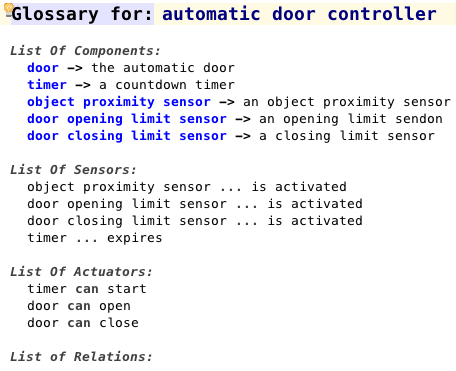
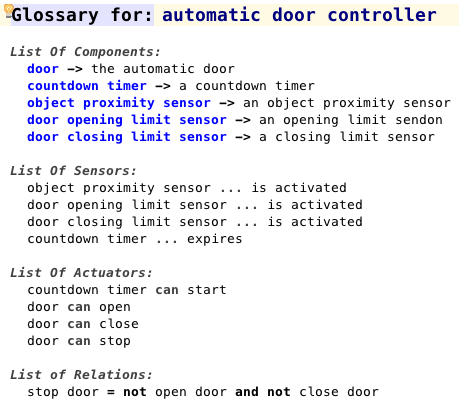
more text

diff --git a/text_paper/highlights.tex b/text_paper/highlights.tex
@@ -3,60 +3,106 @@
 \subsection{``Real'' EARS}
 
 A significant amount of effort was invested into making \textsf{EARS-CTRL} as close as
-possible to the real EARS templates used at Rolls-Royce. Given the fact that
+possible to the real EARS language used at Rolls-Royce. Given the fact that
 EARS was not originally built to describe requirements at a level where they can
 automatically be transposed into a real system, a large investment was made into
-having a translation from EARS into the formalism used by a controller
-synthesizer (the Linear Temporal Logic -- LTL -- formalism) that would overcome 
-as much as possible the barriers between the structured but non-formal nature of
+having a translation from EARS into the formalism used the controller
+synthesizer we use in our work: the Linear Temporal Logic -- LTL -- formalism.
+This translation was built to overcome as much as possible the barriers between the structured but non-formal nature of
 EARS, and the strictly formal nature of LTL.
 
-\begin{figure}[t]
+\begin{figure}[h!]
    \begin{center}
      \includegraphics[width=1\textwidth]{images/EARS-Reqs.png}
-     \caption{Requirements for a sliding door controller written using the 
-     \textsf{EARS-Ctrl} editor}
+     \caption{\textsf{EARS-CTRL} Requirements for a sliding door controller}
      \label{fig:ears_reqs}
    \end{center}
  \end{figure}
  
-Figure~\ref{fig:ears_reqs} ilustrates a set of \textsf{EARS-Ctrl} requirements
+Figure~\ref{fig:ears_reqs} ilustrates a set of \textsf{EARS-CTRL} requirements
 for the software controller for a sliding door. By remaining as close as
-possible to the original EARS syntax our editor allows building requirements in
-correct English that can easily read and undertood by humans. 
+possible to the original EARS syntax our editor allows building requirements as
+correct English sentences that can easily read and understood by humans.
 
-One of the main goals of our approach is to remain as faithful as possible to
-the requirements-capturing method proposed by Mavin~\cite{}, thus retaining its advantages of \ldots, as
-described in~\cite{}. In such as manner our tool benefits from all the research
-and advantages of EARS described in the literature~\cite{}. In order to be able
-to ``write'' EARS-like requirements, a first analysis of the problem needs to be
-done in the shape of the creation of a of glossary for the problem at hand. Such
-a glossary is specific to the domain of controllers and identifies the
-components of the system to be controlled, which have sensors and actuators the
-controller logic will use respectively as inputs and outputs.
+\begin{figure}[h!]
+\begin{center}
+\textbf{When} $\langle$trigger$\rangle$ \textbf{then the}
+$\langle$system name$\rangle$ \textbf{shall}
+$\langle$response$\rangle$ \textbf{until}
+$\langle$trigger$\rangle$.
+\caption{An non-standard state-driven EARS template including an \emph{until}
+clause.}
+\label{fig:ears_template_while}
+\end{center}
+\end{figure}
 
-In order to reach a functioning controller we then allow interacting with the
-automatically generated synthesizer using Simulink. When necessary the engineer
-can edit the EARS requirements, where necessary, to be able to generate
-controllers exhibiting the expected behavior. This may come at the cost of
-sacrificing some of the readabilty of the original EARS
-requirements.\levi{blahblah}
+In~\cite{LucioRCM17} we have presented a previous version of \textsf{EARS-CTRL}
+which included templates that, although not part of the original EARS, had been
+introduced to simplify translation into LTL.  An example of one such templates
+is presented in figure~\ref{fig:ears_template_while} -- the \textbf{while} segment of the
+requirement is not standard EARS and it has been removed in the version of
+\textsf{EARS-CTRL} we present in this paper. The work of briging the syntax of
+\textsf{EARS-CTRL} closer to ``real'' EARS while preserving a semantically
+meaniful translation into LTL was done with together with Alistair Mavin, the
+author of this paper who first proposed EARS~\cite{EARS09}.
+Our rationale is that, by remaining as faithful as possible to the original
+EARS syntax, we: 1) benefit from all the advantages of using EARS already
+investigated and described in the literature~\cite{EARS09,EARS16}; and 2)
+provide to Rolls-Royce and potentially other companies a tool that can immediately be used by engineers trained in using EARS.
+
+% , thus
+% retaining its advantages of \ldots, as described in~\cite{}. In such as manner our tool benefits from all the research
+% and advantages of EARS described in the literature~\cite{}.
+
+% One of the main goals of our approach is to  In order to be able
+% to ``write'' EARS-like requirements, a first analysis of the problem needs to be
+% done in the shape of the creation of a of glossary for the problem at hand.
+%
+% 
+% In order to reach a functioning controller we then allow interacting with the
+% automatically generated synthesizer using Simulink. When necessary the engineer
+% can edit the EARS requirements, where necessary, to be able to generate
+% controllers exhibiting the expected behavior. This may come at the cost of
+% sacrificing some of the readabilty of the original EARS
+% requirements.\levi{blahblah}
 
 \subsection{A Push-Button Approach}
 
 Controllers can be fully automatically synthesized from EARS requirements into
-controllers, at the push of a button. \ldots
+controllers, at the push of a button. Note that in order to build requirements
+model illustrated in figure~\ref{fig:ears_reqs} it is necessary to previously
+build a glossary for the controller. Such a glossary identifies the components
+of the system to be controlled. Each of those components contains sensors
+and/or actuators the controller logic will use respectively as inputs from and
+outputs to the real system. The vocabulary defined in the glossary is
+appropriately proposed by the editor to fill in the placeholders when a new
+requirement is built.
+
+\begin{figure}[h!]
+   \begin{center}
+     \includegraphics[width=.5\textwidth]{images/glossary.png}
+     \caption{\textsf{EARS-CTRL} Glossary for sliding door controller}
+     \label{fig:ears_glossary}
+   \end{center}
+ \end{figure}
+ 
+ We present in figure~\ref{fig:ears_glossary} the glossary for the automatic
+ door controller specification. Note that the glossary allows defining
+ invariants that will be taken into consideration during controller synthesis:
+ for example in the last line of glossary in figure~\ref{fig:ears_glossary} we
+ state that if the motor is \textsf{stopped}, then it cannot be
+ \textsf{opening} or \textsf{closing}.
 
 \subsection{Verification}
 
-Our \textsf{EARS-CTRL} tool provides a set of mechanisms for verification, in
-particular \emph{Well-Formedness by Construction} when the specification is
-being built and \emph{simulation} of the synthesized controllers by exercising the
-controller manually using \textsf{simulink} as a back-end. We can also generate
-test cases for controllers that can either be used to debug the controller by
-analysing traces of execution of the controller or to be used as test-cases for
-alternative implementations of the controllers which are not automatically
-synthesized.
+% Our \textsf{EARS-CTRL} tool provides a set of mechanisms for verification, in
+% particular \emph{Well-Formedness by Construction} when the specification is
+% being built and \emph{simulation} of the synthesized controllers by exercising the
+% controller manually using \textsf{simulink} as a back-end. We can also generate
+% test cases for controllers that can either be used to debug the controller by
+% analysing traces of execution of the controller or to be used as test-cases for
+% alternative implementations of the controllers which are not automatically
+% synthesized.
 
 \subsubsection{Well-Formedness by Construction}
 
@@ -66,30 +112,41 @@ requirements engineer selects an EARS template, the corresponding sentence is
 shown to her as a structure with placeholders. These structures provide a
 first level of well-formedness, as only correct sentences can be written. The
 second level of well-formedness is guaranteed by the fact that only valid
-sensors or actuators can be chosen in those sentences' placeholders. This is
-illustrated in figure~\ref{}.
+sensors or actuators can be chosen in those sentences' placeholders. 
 
 Well-formedness allows writing syntactically correct \textsf{EARS-CTRL}
 specifications. The semantics of such specifications is then given by the
 \textsf{autoConf4} synthesizer in the form of a synchronous dataflow diagram,
-which \textsf{EARS-CTRL} can display when synthesis is possible. In the cases
-where synthesis is not possible the error code from the\textsf{autoConf4} tool
-is lifted such that the requirements that prevent the controller from being
+which \textsf{EARS-CTRL} can display graphically when synthesis is possible. In
+the cases where synthesis is not possible the error code from the
+\textsf{autoConf4} tool is lifted such that the requirements that prevent the controller from being
 generated are pointed out. \levi{this is not done yet}
 
 \subsubsection{Simulation}
 
+\begin{figure}[h!]
+   \begin{center}
+     \includegraphics[width=.1\textwidth]{images/glossary.png}
+     \caption{\textsf{EARS-CTRL} specification simulator}
+     \label{fig:ears_glossary}
+   \end{center}
+ \end{figure}
+
 Once a controller can be synthesized from a set of EARS requirements, it becomes
 important to understand whether that controller behaves as expected. In order to
 do so we have built a translator from synchronous dataflow diagrams into
-\textsf{Simulink}, which then allows us to exercise the behavior of the
-controller.
+\textsf{Simulink} block diagramns, which then allows us to exercise the behavior
+of the controller. In figure~\ref{} we display the panel that allows
+``playing'' the controller by providing a sequence of inputs manually. Outputs
+are incrementally added to the panel as new inputs are provided by the
+requirements engineer. Note that the controller keeps state, which means that
+the order in which the commands are given matters. The ``Reset'' button in the
+panel allows resetting the controller to its initial state.
 
 \subsubsection{Generation of Test Cases}
 
 \textsf{EARS-CTRL} allows generating test cases directly from the EARS
-requirements. Test cases are generated through the panel displayed in
-figure~\ref{}. A test case consists of a sequence of $\langle
+requirements. A test case consists of a sequence of $\langle
   input, output \rangle$ pairs, where each input is a vector of sensor states
   and each output a vector of actuator states. Note that individual sensors and
   actuators assume two states: ``0'': off; ``1'': on.
@@ -106,7 +163,6 @@ providing the following values:
   an input vector cannot occur more than once in a test sequence (thus limiting
   the length of test sequences to the number of possible input vectors).
 \end{itemize} 
-
 
 \subsection{Code Generation}
 

diff --git a/text_paper/architecture.tex b/text_paper/architecture.tex
@@ -14,45 +14,58 @@ reader a brief description of the main components of the tool's architecture,
 how those components have been implemented and which artifacts those
 components interchange. 
  
-\paragraph{1. EARS and Glossary Editor\\\\} 
+\paragraph{1. Requirements and Glossary Editor\\\\} 
 
-As previously mentioned, an \textsf{EARS-CTRL} specification is composed of a
-Glossary and of a set of requirements.
-
-Additionally, in the glossary the requirements engineer can also express
-relationships between signals such that necessary constrains can be defined, as show in figure~\ref{}.
-
-Aliases for signals can also be defined, as can be seen in figure~\ref{}. These
-aliases are helpful in making the specification readable, as can be seen in the
-example in figure~\ref{}.
+Both the requirements and the glossary editors have been built as
+domain-specific languages in the MPS meta-editing tool. The languages are mostly
+composed of an abstract syntax (also known as meta-model) and a concrete syntax
+which allows displaying and editing the information in a neat fashion, as
+depicted in figures~\ref{fig:ears_reqs} and ~\ref{fig:ears_glossary}. In order
+to build a new set of requirements or a glossary the requirements engineer
+simply builds an instance (also known as a model) of the corresponding language.
+Note that because MPS is a projectional editor the abstract syntax is directly
+edited in the model. A direct consequence of this is for example the fact that
+when a glossary component's name is updated in the glossary editor, that term
+will be immediately updated in any requirements that refer to that component
+name. This is because requirements directly refer to the component names defined
+in the glossary.
 
 \paragraph{2. From EARS to Lineal Temporal Logic\\\\}
 
+\textsf{EARS-CTRL} requirements can be translated mostly in a straightforward
+fashion from the English language into LTL. Take for instance requirement
+``Req1'' from figure~\ref{fig:ears_reqs}:
+
+\begin{center}
+\textbf{When} \emph{object proximity sensor is activated} \textbf{then the} \emph{automatic door controller} \textbf{shall}
+\emph{open door}.
+\end{center}
+
+ This requirement translates into the following LTL formula:
+ 
+ $$[] (objectproximitysensorisactivated \rightarrow dooropen)$$
+ 
+ which, if one takes into consideration the semantics of the $\rightarrow$
+ operator as ``implies'', is the expected logical meaning of ``Req1''. However,
+ if one translates the whole set of requirements for the automatic door in
+ \ref{fig:ears_reqs} into LTL, the result for ``Req1" will be as follows:
+
+\begin{align*}
+[] (objectproximity&sensorisactivated \rightarrow\\
+ &(dooropen\,W\,(((dooropeninglimitsensorisactivated \lor timerexpires\\
+ & \lor doorclosinglimitsensorisactivated )))
+\end{align*}
+ 
+
 \paragraph{3. Synthesizing a Controller using \textsf{autoConf4}\\\\}
 
-In order to achieve such as synthesis we
-use the \textsf{autoConf4} tool, which takes as input as set of LTL and
-propositional logic formulas. In figure~\ref{} we depict the translation of the
-automatic door specification in figure~\ref{} into LTL. Note that the
-translation is not directly one-to-one from EARS requirements into LTL formulas,
-as some details are added by the translation algorithm in order to take into
-consideration particularities of the \textsf{autoConf4} tool. This can be
-observed \ldots.
-
 \paragraph{4. Simulation and Test Case Generation Control Panel\\\\}
-
- In figure~\ref{} we display the panel that allows ``playing'' the
-controller by providing a sequence of inputs manually. Outputs are incrementally
-added to the panel as new inputs are provided by the requirements engineer.
-Note that the controller keeps state, which means that the order in which the commands are given matters.
-The ``Reset'' button in the panel allows resetting the controller to its initial
-state.
 
 Say here how the exploration mechanism works by simulating steps iteratively to
 build the test cases according to the test set parameterization.
 
 \paragraph{5. Simulation and Test Generation using Simulink\\\\}
 
-Talk about how blocks from simulink are composed together to allow building the
+Talk about how blocks from Simulink are composed together to allow building the
 expected behavior. Some blocks had to be purposefully build to allow simulation
-to happran. This is done via a script that loads the model into simulink \ldots
+to happen. This is done via a script that loads the model into Simulink \ldots

diff --git a/MoDELS_tool_paper_2017.tex b/MoDELS_tool_paper_2017.tex
@@ -11,6 +11,7 @@
 \usepackage{ifthen}
 \usepackage{amssymb}
 \usepackage{graphicx}
+\usepackage{amsmath}
  
 \newboolean{showcomments}
 \setboolean{showcomments}{true} % toggle to show or hide comments
@@ -42,7 +43,8 @@
 
 \mainmatter              % start of the contributions
 %
-\title{EARS-CTRL: From Natural Language to Controller Code in 1 Click}
+\title{EARS-CTRL: From Natural Language to Controller Code in 1
+Click\levi{better title needed!}}
 %
 \titlerunning{}  % abbreviated title (for running head)
 %                                     also used for the TOC unless
@@ -86,37 +88,7 @@ Abstract here\ldots
 %
 % ---- Bibliography ----
 %
-\begin{thebibliography}{5}
-%
-\bibitem {clar:eke}
-Clarke, F., Ekeland, I.:
-Nonlinear oscillations and
-boundary-value problems for Hamiltonian systems.
-Arch. Rat. Mech. Anal. 78, 315--333 (1982)
-
-\bibitem {clar:eke:2}
-Clarke, F., Ekeland, I.:
-Solutions p\'{e}riodiques, du
-p\'{e}riode donn\'{e}e, des \'{e}quations hamiltoniennes.
-Note CRAS Paris 287, 1013--1015 (1978)
-
-\bibitem {mich:tar}
-Michalek, R., Tarantello, G.:
-Subharmonic solutions with prescribed minimal
-period for nonautonomous Hamiltonian systems.
-J. Diff. Eq. 72, 28--55 (1988)
-
-\bibitem {tar}
-Tarantello, G.:
-Subharmonic solutions for Hamiltonian
-systems via a $\bbbz_{p}$ pseudoindex theory.
-Annali di Matematica Pura (to appear)
-
-\bibitem {rab}
-Rabinowitz, P.:
-On subharmonic solutions of a Hamiltonian system.
-Comm. Pure Appl. Math. 33, 609--633 (1980)
-
-\end{thebibliography}
+\bibliographystyle{abbrv}
+\bibliography{models_tool_2017}
 
 \end{document}

diff --git a/text_paper/introduction.tex b/text_paper/introduction.tex
@@ -3,4 +3,22 @@
 Note that the front-end of the tool is based on the MPS
 (Meta-Programming System) meta-editor.
 
-\levi{contributions here}
+The contributions of this paper are:
+\begin{itemize}
+  \item EARS syntax:
+\begin{itemize}
+  \item components are now devices that can have sensors and actuators and are
+  described in the glossary. This makes it for a more fluid English description. 
+  \item until clauses have been removed from templates. 
+\end{itemize}
+\item{Synthesis}
+\begin{itemize}
+  \item lifting of error codes from the synthesizer. 
+\end{itemize}
+\item Simulation and test case generation.
+\begin{itemize}
+  \item interaction with simulink for simulation.
+  \item interaction with simulink for text case generation
+\end{itemize}
+
+\end{itemize}
